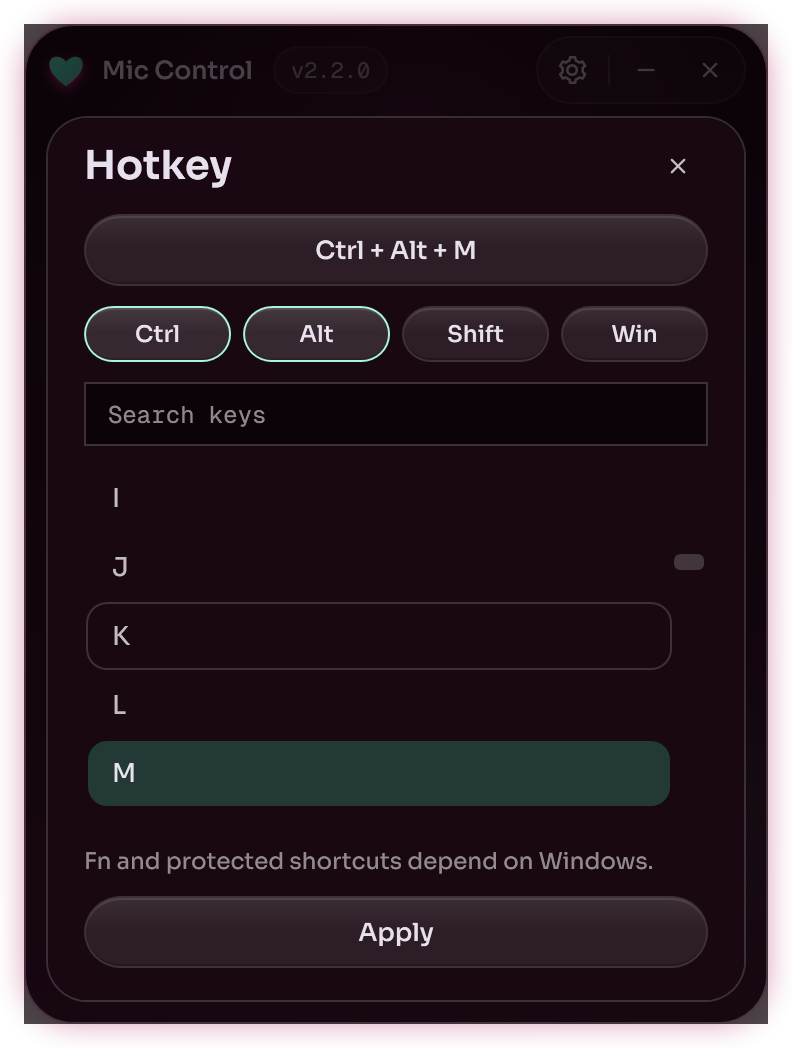
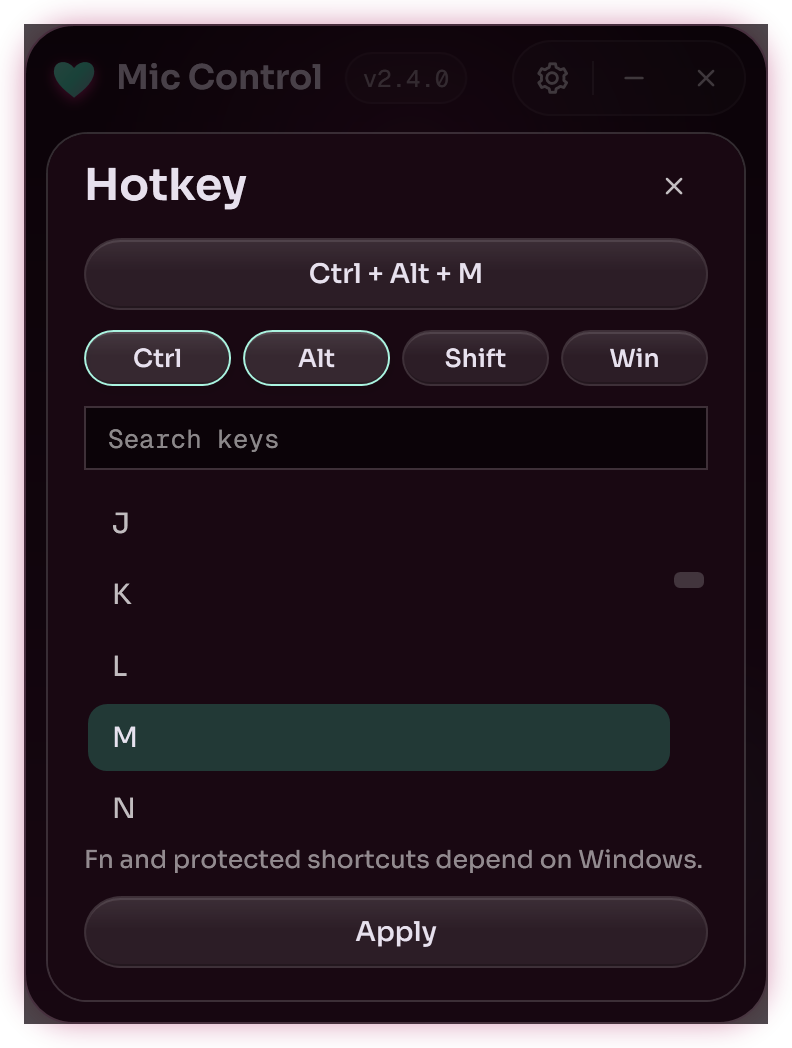
Larger type scale and a 52 px title bar; release v2.4.0

diff --git a/src/SettingsWindow.cs b/src/SettingsWindow.cs
@@ -124,12 +124,12 @@ class SettingsWindow : Window {
     }
     // The Settings sheet: opened by the gear, closed by the gear, its close button or Esc.
     void BuildSheet(Grid content) {
-        sheet=new Grid { Visibility=Visibility.Collapsed,Background=Look.Scrim,Margin=new Thickness(0,44,0,0) }; content.Children.Add(sheet);
+        sheet=new Grid { Visibility=Visibility.Collapsed,Background=Look.Scrim,Margin=new Thickness(0,52,0,0) }; content.Children.Add(sheet);
         sheet.MouseLeftButtonDown+=delegate(object s,MouseButtonEventArgs e) { if(e.OriginalSource==sheet)CloseSheet(); };
         sheetPanel=new Border { CornerRadius=new CornerRadius(20),Margin=new Thickness(10,2,10,10),Background=Look.Sheet,BorderThickness=new Thickness(1),BorderBrush=Theme.Hairline,RenderTransform=new TranslateTransform(),Padding=new Thickness(18,10,6,14) }; sheet.Children.Add(sheetPanel);
         Grid layout=new Grid(); sheetPanel.Child=layout; layout.RowDefinitions.Add(new RowDefinition { Height=GridLength.Auto }); layout.RowDefinitions.Add(new RowDefinition());
         Grid title=new Grid { Margin=new Thickness(0,0,8,2) }; title.Children.Add(Theme.Label("Settings",TypeRoles.Display,Theme.Text));
-        Button close=new Button { Style=(Style)Resources["TitleButton"],Content=Icons.Make(Icons.Close,15),HorizontalAlignment=HorizontalAlignment.Right,ToolTip="Close" }; System.Windows.Automation.AutomationProperties.SetName(close,"Close settings");
+        Button close=new Button { Style=(Style)Resources["TitleButton"],Content=Icons.Make(Icons.Close,17),HorizontalAlignment=HorizontalAlignment.Right,ToolTip="Close" }; System.Windows.Automation.AutomationProperties.SetName(close,"Close settings");
         close.Click+=delegate { CloseSheet(); }; title.Children.Add(close); layout.Children.Add(title);
         ScrollViewer scroll=new ScrollViewer { VerticalScrollBarVisibility=ScrollBarVisibility.Auto,HorizontalScrollBarVisibility=ScrollBarVisibility.Disabled,Padding=new Thickness(0,0,12,0) }; Grid.SetRow(scroll,1); layout.Children.Add(scroll);
         StackPanel stack=new StackPanel(); scroll.Content=stack;
@@ -179,10 +179,10 @@ class SettingsWindow : Window {
         UniformGrid row=new UniformGrid { Columns=Themes.All.Length,Rows=1,Height=32,Margin=new Thickness(-2,8,-2,8) }; System.Windows.Automation.AutomationProperties.SetName(row,"Theme"); parent.Children.Add(row);
         for(int i=0;i<Themes.All.Length;i++) {
             ThemeSpec theme=Themes.All[i]; int index=i;
-            Button chip=new Button { Height=32,Padding=new Thickness(4,0,6,0),Margin=new Thickness(2,0,2,0),HorizontalContentAlignment=HorizontalAlignment.Left,Background=Theme.Brush("#0DFFFFFF"),BorderBrush=Brushes.Transparent,Tag=i };
+            Button chip=new Button { Height=32,Padding=new Thickness(3,0,3,0),Margin=new Thickness(2,0,2,0),HorizontalContentAlignment=HorizontalAlignment.Center,Background=Theme.Brush("#0DFFFFFF"),BorderBrush=Brushes.Transparent,Tag=i };
             System.Windows.Automation.AutomationProperties.SetName(chip,theme.Label+" theme");
             StackPanel contents=new StackPanel { Orientation=Orientation.Horizontal }; contents.Children.Add(Swatch(theme));
-            TextBlock name=Theme.Label(theme.Label,TypeRoles.LabelS,Theme.Ink2); name.Margin=new Thickness(5,0,0,0); name.TextTrimming=TextTrimming.CharacterEllipsis; contents.Children.Add(name); chip.Content=contents;
+            TextBlock name=Theme.Label(theme.Label,TypeRoles.LabelS,Theme.Ink2); name.Margin=new Thickness(4,0,0,0); name.TextTrimming=TextTrimming.CharacterEllipsis; contents.Children.Add(name); chip.Content=contents;
             chip.Click+=delegate { SelectTheme(index); };
             chip.KeyDown+=delegate(object s,KeyEventArgs e) { int step=e.Key==Key.Right||e.Key==Key.Down?1:e.Key==Key.Left||e.Key==Key.Up?-1:0; if(step==0)return; int next=(index+step+Themes.All.Length)%Themes.All.Length; themeButtons[next].Focus(); SelectTheme(next); e.Handled=true; };
             row.Children.Add(chip); themeButtons.Add(chip);
@@ -242,11 +242,11 @@ class SettingsWindow : Window {
     }
     void BuildEditor() {
         editor=new Grid { Visibility=Visibility.Collapsed,Background=Look.Scrim }; root.Children.Add(editor);
-        panel=new Border { CornerRadius=new CornerRadius(20),Margin=new Thickness(11,46,11,11),Background=Look.Sheet,BorderThickness=new Thickness(1),BorderBrush=Theme.Hairline,RenderTransform=new TranslateTransform(),Padding=new Thickness(18,10,18,16) }; editor.Children.Add(panel);
+        panel=new Border { CornerRadius=new CornerRadius(20),Margin=new Thickness(11,54,11,11),Background=Look.Sheet,BorderThickness=new Thickness(1),BorderBrush=Theme.Hairline,RenderTransform=new TranslateTransform(),Padding=new Thickness(18,10,18,16) }; editor.Children.Add(panel);
         Grid layout=new Grid(); panel.Child=layout; layout.RowDefinitions.Add(new RowDefinition { Height=GridLength.Auto }); layout.RowDefinitions.Add(new RowDefinition()); layout.RowDefinitions.Add(new RowDefinition { Height=GridLength.Auto });
         StackPanel top=new StackPanel(); layout.Children.Add(top);
         Grid title=new Grid { Margin=new Thickness(0,0,0,10) }; title.Children.Add(Theme.Label("Hotkey",TypeRoles.Display,Theme.Text));
-        Button cancel=new Button { Style=(Style)Resources["TitleButton"],Content=Icons.Make(Icons.Close,15),HorizontalAlignment=HorizontalAlignment.Right,ToolTip="Close" }; System.Windows.Automation.AutomationProperties.SetName(cancel,"Close hotkey editor");
+        Button cancel=new Button { Style=(Style)Resources["TitleButton"],Content=Icons.Make(Icons.Close,17),HorizontalAlignment=HorizontalAlignment.Right,ToolTip="Close" }; System.Windows.Automation.AutomationProperties.SetName(cancel,"Close hotkey editor");
         cancel.Click+=delegate { CloseEditor(); }; title.Children.Add(cancel); top.Children.Add(title);
         record=new Button { Height=36,HorizontalContentAlignment=HorizontalAlignment.Center }; captureText=Theme.Label("Record a shortcut",TypeRoles.Label,Theme.Text); record.Content=captureText;
         record.ToolTip="Click, then press a key or shortcut. Close this panel to cancel.";

diff --git a/src/Chrome.cs b/src/Chrome.cs
@@ -75,29 +75,29 @@ class Segmented : Grid {
     }
 }
 // The standard title bar of the softoblivion apps: app glyph, name and version pill on the left; one capsule with
-// settings | minimize, close on the right; the empty band between them drags the window. 44 px high.
+// settings | minimize, close on the right; the empty band between them drags the window. 52 px high.
 class TitleBar : Grid {
     internal readonly Button Pill,Gear,Minimize,Close; readonly Ellipse dot; readonly TextBlock version;
     internal TitleBar(ThemeLook look,ResourceDictionary resources,string name,string versionText) {
-        Height=44; Background=Brushes.Transparent; Margin=new Thickness(10,0,10,0);
+        Height=52; Background=Brushes.Transparent; Margin=new Thickness(12,0,10,0);
         ColumnDefinitions.Add(new ColumnDefinition()); ColumnDefinitions.Add(new ColumnDefinition { Width=GridLength.Auto });
         StackPanel left=new StackPanel { Orientation=Orientation.Horizontal,VerticalAlignment=VerticalAlignment.Center }; Children.Add(left);
-        Path glyph=new Path { Data=Geometry.Parse("M 10,18.2 C 8.6,16.8 1.6,12.6 1.6,7.2 C 1.6,2.6 7.2,2 10,5.8 C 12.8,2 18.4,2.6 18.4,7.2 C 18.4,12.6 11.4,16.8 10,18.2 Z"),Width=20,Height=20,Fill=look.AccentGrad,Effect=look.GlyphGlow,IsHitTestVisible=false,Stretch=Stretch.None };
+        Path glyph=new Path { Data=Geometry.Parse("M 10,18.2 C 8.6,16.8 1.6,12.6 1.6,7.2 C 1.6,2.6 7.2,2 10,5.8 C 12.8,2 18.4,2.6 18.4,7.2 C 18.4,12.6 11.4,16.8 10,18.2 Z"),Width=20,Height=20,Fill=look.AccentGrad,Effect=look.GlyphGlow,IsHitTestVisible=false,Stretch=Stretch.None,LayoutTransform=new ScaleTransform(1.2,1.2) }; // drawn at 24 px
         left.Children.Add(glyph);
-        TextBlock title=Theme.Label(name,TypeRoles.Label,Theme.Text); title.Margin=new Thickness(8,0,0,0); title.IsHitTestVisible=false; left.Children.Add(title);
+        TextBlock title=Theme.Label(name,TypeRoles.Title,Theme.Text); title.Margin=new Thickness(9,0,0,0); title.IsHitTestVisible=false; left.Children.Add(title);
         StackPanel pillContent=new StackPanel { Orientation=Orientation.Horizontal };
         dot=new Ellipse { Width=6,Height=6,Fill=look.Accent,Margin=new Thickness(0,0,5,0),Visibility=Visibility.Collapsed,VerticalAlignment=VerticalAlignment.Center }; pillContent.Children.Add(dot);
         version=new TextBlock { Text=versionText,VerticalAlignment=VerticalAlignment.Center }; TypeRoles.MonoS.Apply(version); pillContent.Children.Add(version);
-        Pill=new Button { Style=(Style)resources["Pill"],Content=pillContent,Margin=new Thickness(10,0,0,0),VerticalAlignment=VerticalAlignment.Center,ToolTip="Check for updates" };
+        Pill=new Button { Style=(Style)resources["Pill"],Content=pillContent,Margin=new Thickness(11,0,0,0),VerticalAlignment=VerticalAlignment.Center,ToolTip="Check for updates" };
         System.Windows.Automation.AutomationProperties.SetName(Pill,"Version "+versionText); left.Children.Add(Pill);
-        Grid cluster=new Grid { Height=34,VerticalAlignment=VerticalAlignment.Center }; Grid.SetColumn(cluster,1); Children.Add(cluster);
-        cluster.Children.Add(new Border { CornerRadius=new CornerRadius(17),Background=Theme.Brush("#09FFFFFF"),BorderBrush=Theme.Brush("#1FFFFFFF"),BorderThickness=new Thickness(1),
+        Grid cluster=new Grid { Height=38,VerticalAlignment=VerticalAlignment.Center }; Grid.SetColumn(cluster,1); Children.Add(cluster);
+        cluster.Children.Add(new Border { CornerRadius=new CornerRadius(19),Background=Theme.Brush("#09FFFFFF"),BorderBrush=Theme.Brush("#1FFFFFFF"),BorderThickness=new Thickness(1),
             Effect=new System.Windows.Media.Effects.DropShadowEffect { Color=Colors.Black,BlurRadius=10,ShadowDepth=2,Direction=270,Opacity=.28 } });
         StackPanel buttons=new StackPanel { Orientation=Orientation.Horizontal,Margin=new Thickness(3) }; cluster.Children.Add(buttons);
-        Gear=Make(resources,"TitleButton",Icons.Gear,17,"Settings"); buttons.Children.Add(Gear);
-        buttons.Children.Add(new Border { Width=1,Height=15,Margin=new Thickness(3,0,3,0),Background=Theme.Brush("#24FFFFFF"),VerticalAlignment=VerticalAlignment.Center });
-        Minimize=Make(resources,"TitleButton",Icons.Minimize,15,"Minimize"); Minimize.Margin=new Thickness(0,0,2,0); buttons.Children.Add(Minimize);
-        Close=Make(resources,"CloseButton",Icons.Close,15,"Close"); buttons.Children.Add(Close);
+        Gear=Make(resources,"TitleButton",Icons.Gear,19,"Settings"); buttons.Children.Add(Gear);
+        buttons.Children.Add(new Border { Width=1,Height=17,Margin=new Thickness(3,0,3,0),Background=Theme.Brush("#24FFFFFF"),VerticalAlignment=VerticalAlignment.Center });
+        Minimize=Make(resources,"TitleButton",Icons.Minimize,17,"Minimize"); Minimize.Margin=new Thickness(0,0,2,0); buttons.Children.Add(Minimize);
+        Close=Make(resources,"CloseButton",Icons.Close,17,"Close"); buttons.Children.Add(Close);
         // The gear turns by 60 degrees on hover and while the settings sheet is open, with the bouncy spring.
         Gear.MouseEnter+=delegate { TurnGear(); }; Gear.MouseLeave+=delegate { TurnGear(); };
     }

diff --git a/src/Theme.cs b/src/Theme.cs
@@ -70,9 +70,9 @@ static class Theme {
   </ControlTemplate></Setter.Value></Setter>
  </Style>
  <Style x:Key='TitleButton' TargetType='Button'>
-  <Setter Property='Width' Value='30'/><Setter Property='Height' Value='28'/><Setter Property='Foreground' Value='#BDFFFFFF'/><Setter Property='Cursor' Value='Hand'/><Setter Property='FocusVisualStyle' Value='{DynamicResource Focus}'/>
+  <Setter Property='Width' Value='34'/><Setter Property='Height' Value='32'/><Setter Property='Foreground' Value='#BDFFFFFF'/><Setter Property='Cursor' Value='Hand'/><Setter Property='FocusVisualStyle' Value='{DynamicResource Focus}'/>
   <Setter Property='Template'><Setter.Value><ControlTemplate TargetType='Button'>
-   <Border x:Name='b' CornerRadius='14' Background='Transparent'><ContentPresenter HorizontalAlignment='Center' VerticalAlignment='Center'/></Border>
+   <Border x:Name='b' CornerRadius='16' Background='Transparent'><ContentPresenter HorizontalAlignment='Center' VerticalAlignment='Center'/></Border>
    <ControlTemplate.Triggers>
     <Trigger Property='Tag' Value='on'><Setter TargetName='b' Property='Background' Value='#21FFFFFF'/><Setter Property='Foreground' Value='#F5FFFFFF'/></Trigger>
     <Trigger Property='IsMouseOver' Value='True'><Setter TargetName='b' Property='Background' Value='#21FFFFFF'/><Setter Property='Foreground' Value='#F5FFFFFF'/></Trigger>
@@ -82,7 +82,7 @@ static class Theme {
  </Style>
  <Style x:Key='CloseButton' TargetType='Button' BasedOn='{StaticResource TitleButton}'>
   <Setter Property='Template'><Setter.Value><ControlTemplate TargetType='Button'>
-   <Border x:Name='b' CornerRadius='14' Background='Transparent'><ContentPresenter HorizontalAlignment='Center' VerticalAlignment='Center'/></Border>
+   <Border x:Name='b' CornerRadius='16' Background='Transparent'><ContentPresenter HorizontalAlignment='Center' VerticalAlignment='Center'/></Border>
    <ControlTemplate.Triggers>
     <Trigger Property='IsMouseOver' Value='True'><Setter TargetName='b' Property='Background' Value='#E5484D'/><Setter Property='Foreground' Value='White'/></Trigger>
     <Trigger Property='IsPressed' Value='True'><Setter TargetName='b' Property='Background' Value='#C93C41'/><Setter Property='Foreground' Value='White'/></Trigger>
@@ -90,9 +90,9 @@ static class Theme {
   </ControlTemplate></Setter.Value></Setter>
  </Style>
  <Style x:Key='Pill' TargetType='Button'>
-  <Setter Property='Height' Value='24'/><Setter Property='Padding' Value='9,0'/><Setter Property='Foreground' Value='#8AFFFFFF'/><Setter Property='Cursor' Value='Hand'/><Setter Property='FocusVisualStyle' Value='{DynamicResource Focus}'/>
+  <Setter Property='Height' Value='26'/><Setter Property='Padding' Value='9,0'/><Setter Property='Foreground' Value='#8AFFFFFF'/><Setter Property='Cursor' Value='Hand'/><Setter Property='FocusVisualStyle' Value='{DynamicResource Focus}'/>
   <Setter Property='Template'><Setter.Value><ControlTemplate TargetType='Button'>
-   <Grid><Border x:Name='b' CornerRadius='12' Background='#09FFFFFF' BorderBrush='#1AFFFFFF' BorderThickness='1'><Border.Effect><DropShadowEffect Color='Black' BlurRadius='8' ShadowDepth='2' Direction='270' Opacity='0.25'/></Border.Effect></Border>
+   <Grid><Border x:Name='b' CornerRadius='13' Background='#09FFFFFF' BorderBrush='#1AFFFFFF' BorderThickness='1'><Border.Effect><DropShadowEffect Color='Black' BlurRadius='8' ShadowDepth='2' Direction='270' Opacity='0.25'/></Border.Effect></Border>
     <ContentPresenter Margin='{TemplateBinding Padding}' VerticalAlignment='Center'/></Grid>
    <ControlTemplate.Triggers><Trigger Property='IsMouseOver' Value='True'><Setter TargetName='b' Property='Background' Value='#17FFFFFF'/></Trigger></ControlTemplate.Triggers>
   </ControlTemplate></Setter.Value></Setter>

diff --git a/src/Typography.cs b/src/Typography.cs
@@ -23,15 +23,15 @@ class TypeRole {
 static class TypeRoles {
     // weight, size px / line height
     internal static readonly TypeRole
-        Display=new TypeRole("Display",650,20,1.2,false,false),   // sheet and window titles
-        Title=new TypeRole("Title",650,16,1.25,false,false),      // panel titles, the main button
-        Section=new TypeRole("Section",600,11,1.3,false,true),    // group headers, chips, tags (capitals)
-        Body=new TypeRole("Body",450,13,1.45,false,false),        // text, notes, hints
-        Label=new TypeRole("Label",550,12.5,1.3,false,false),     // buttons, segmented options, setting labels
-        LabelS=new TypeRole("LabelS",550,11.5,1.3,false,false),   // small buttons, compact segments
-        Caption=new TypeRole("Caption",450,11.5,1.35,false,false),// meta lines, secondary lines, status
-        Mono=new TypeRole("Mono",450,12,1.4,true,false),          // key names, codes
-        MonoS=new TypeRole("MonoS",450,11,1.3,true,false);        // the version pill
+        Display=new TypeRole("Display",650,22,1.2,false,false),   // sheet and window titles
+        Title=new TypeRole("Title",650,17,1.25,false,false),      // the app name in the title bar, panel titles, the main button
+        Section=new TypeRole("Section",600,11.5,1.3,false,true),    // group headers, chips, tags (capitals)
+        Body=new TypeRole("Body",450,14,1.45,false,false),        // text, notes, hints
+        Label=new TypeRole("Label",550,13.5,1.3,false,false),     // buttons, segmented options, setting labels
+        LabelS=new TypeRole("LabelS",550,12.5,1.3,false,false),   // small buttons, compact segments
+        Caption=new TypeRole("Caption",450,12.5,1.35,false,false),// meta lines, secondary lines, status
+        Mono=new TypeRole("Mono",450,13,1.4,true,false),          // key names, codes
+        MonoS=new TypeRole("MonoS",450,12,1.3,true,false);        // the version pill
     internal static readonly TypeRole[] All={Display,Title,Section,Body,Label,LabelS,Caption,Mono,MonoS};
     static FontFamily text,mono;
     // Created on first use, after the Application object exists (the pack:// scheme is registered by then).

diff --git a/src/UpdateWindow.cs b/src/UpdateWindow.cs
@@ -44,7 +44,7 @@ class UpdateWindow : Window {
         StackPanel heading=new StackPanel { Margin=new Thickness(0,8,40,0) }; header.Children.Add(heading);
         title=Theme.Label(AppInfo.ProductName,TypeRoles.Display,Theme.Text); title.TextTrimming=TextTrimming.CharacterEllipsis; heading.Children.Add(title);
         meta=Theme.Label("",TypeRoles.Caption,Theme.Muted); meta.TextWrapping=TextWrapping.Wrap; meta.Margin=new Thickness(0,4,0,0); heading.Children.Add(meta);
-        Button close=new Button { Style=(Style)Resources["TitleButton"],Content=Icons.Make(Icons.Close,15),HorizontalAlignment=HorizontalAlignment.Right,VerticalAlignment=VerticalAlignment.Top,Margin=new Thickness(0,4,0,0),ToolTip="Later" };
+        Button close=new Button { Style=(Style)Resources["TitleButton"],Content=Icons.Make(Icons.Close,17),HorizontalAlignment=HorizontalAlignment.Right,VerticalAlignment=VerticalAlignment.Top,Margin=new Thickness(0,4,0,0),ToolTip="Later" };
         System.Windows.Automation.AutomationProperties.SetName(close,"Close"); close.Click+=delegate { presenter.Later(); }; header.Children.Add(close);
         Border sheet=new Border { CornerRadius=new CornerRadius(16),Background=look.Sheet,BorderBrush=Theme.Hairline,BorderThickness=new Thickness(1),Padding=new Thickness(16,10,6,10),Margin=new Thickness(0,0,10,0) }; Grid.SetRow(sheet,1); layout.Children.Add(sheet);
         ScrollViewer scroll=new ScrollViewer { VerticalScrollBarVisibility=ScrollBarVisibility.Auto,HorizontalScrollBarVisibility=ScrollBarVisibility.Disabled,Padding=new Thickness(0,0,12,0) }; sheet.Child=scroll;

diff --git a/src/Version.cs b/src/Version.cs
@@ -1,9 +1,9 @@
 using System.Reflection;
 
 // The single version source: build\build.ps1 and the UI read it from here. Change it only for a release.
-[assembly: AssemblyVersion("2.3.0.0")]
-[assembly: AssemblyFileVersion("2.3.0.0")]
-[assembly: AssemblyInformationalVersion("2.3.0")]
+[assembly: AssemblyVersion("2.4.0.0")]
+[assembly: AssemblyFileVersion("2.4.0.0")]
+[assembly: AssemblyInformationalVersion("2.4.0")]
 [assembly: AssemblyTitle("Mic Control")]
 [assembly: AssemblyProduct("Mic Control")]
 [assembly: AssemblyDescription("A tiny Windows microphone toggle with a heart glow.")]
@@ -11,9 +11,9 @@ using System.Reflection;
 
 namespace MicControl {
     internal static class AppInfo {
-        internal const string Version = "2.3.0";
+        internal const string Version = "2.4.0";
         internal const string AuthorTag = "softoblivion";
-        internal const string DisplayVersion = "v2.3.0";
+        internal const string DisplayVersion = "v2.4.0";
         internal const string ProductName = "Mic Control";
         internal const string Repository = "softoblivion/cute-mic-control";
         internal const string AssetName = "MicControl.exe";

diff --git a/src/Tests.cs b/src/Tests.cs
@@ -74,7 +74,7 @@ static class TestSuite {
                 foreach(TextBlock t in Descendants<TextBlock>(window)) { texts++; Assert((t.FontFamily==TypeRoles.TextFamily||t.FontFamily==TypeRoles.MonoFamily)&&sizes.Contains(t.FontSize),"text uses a type role: '"+t.Text+"' "+t.FontFamily+" "+t.FontSize); }
                 Assert(texts>30,"type roles checked on every text ("+texts+")");
                 Assert(window.TitleBar.Pill.Content!=null&&System.Windows.Automation.AutomationProperties.GetName(window.TitleBar.Pill)=="Version "+AppInfo.DisplayVersion,"title bar version pill");
-                Assert(window.TitleBar.ActualHeight==44&&(string)window.TitleBar.Gear.Tag=="on","title bar height and the gear marks the open sheet");
+                Assert(window.TitleBar.ActualHeight==52&&(string)window.TitleBar.Gear.Tag=="on","title bar height and the gear marks the open sheet");
                 int originalUi=window.Prefs.UiScale;
                 window.scaleControl.Options[2].RaiseEvent(new RoutedEventArgs(Button.ClickEvent));
                 ScaleTransform zoom=window.root.LayoutTransform as ScaleTransform;

diff --git a/docs/releases/v2.4.0.md b/docs/releases/v2.4.0.md
@@ -1,0 +1,11 @@
+## ⪩ Mic Control v2.4.0 ⪨
+
+Larger text and a taller title bar, so the window reads comfortably on a large monitor at 100 % display scaling.
+
+---
+
+### ⤷ Changed ˎˊ˗
+
+- **Text size** — every text style is one step larger: body text 14 px instead of 13, labels and buttons 13.5, headings 17, captions 12.5, the key search field 13. Weights and line spacing stay the same.
+- **Title bar** — 52 px instead of 44: a larger heart glyph, the app name in the heading size, a taller version pill and larger Settings, Minimize and Close buttons; the close buttons of Settings, the hotkey editor and the update window match them.
+- **Theme chips** — the four theme names fit on one row at the larger size.
